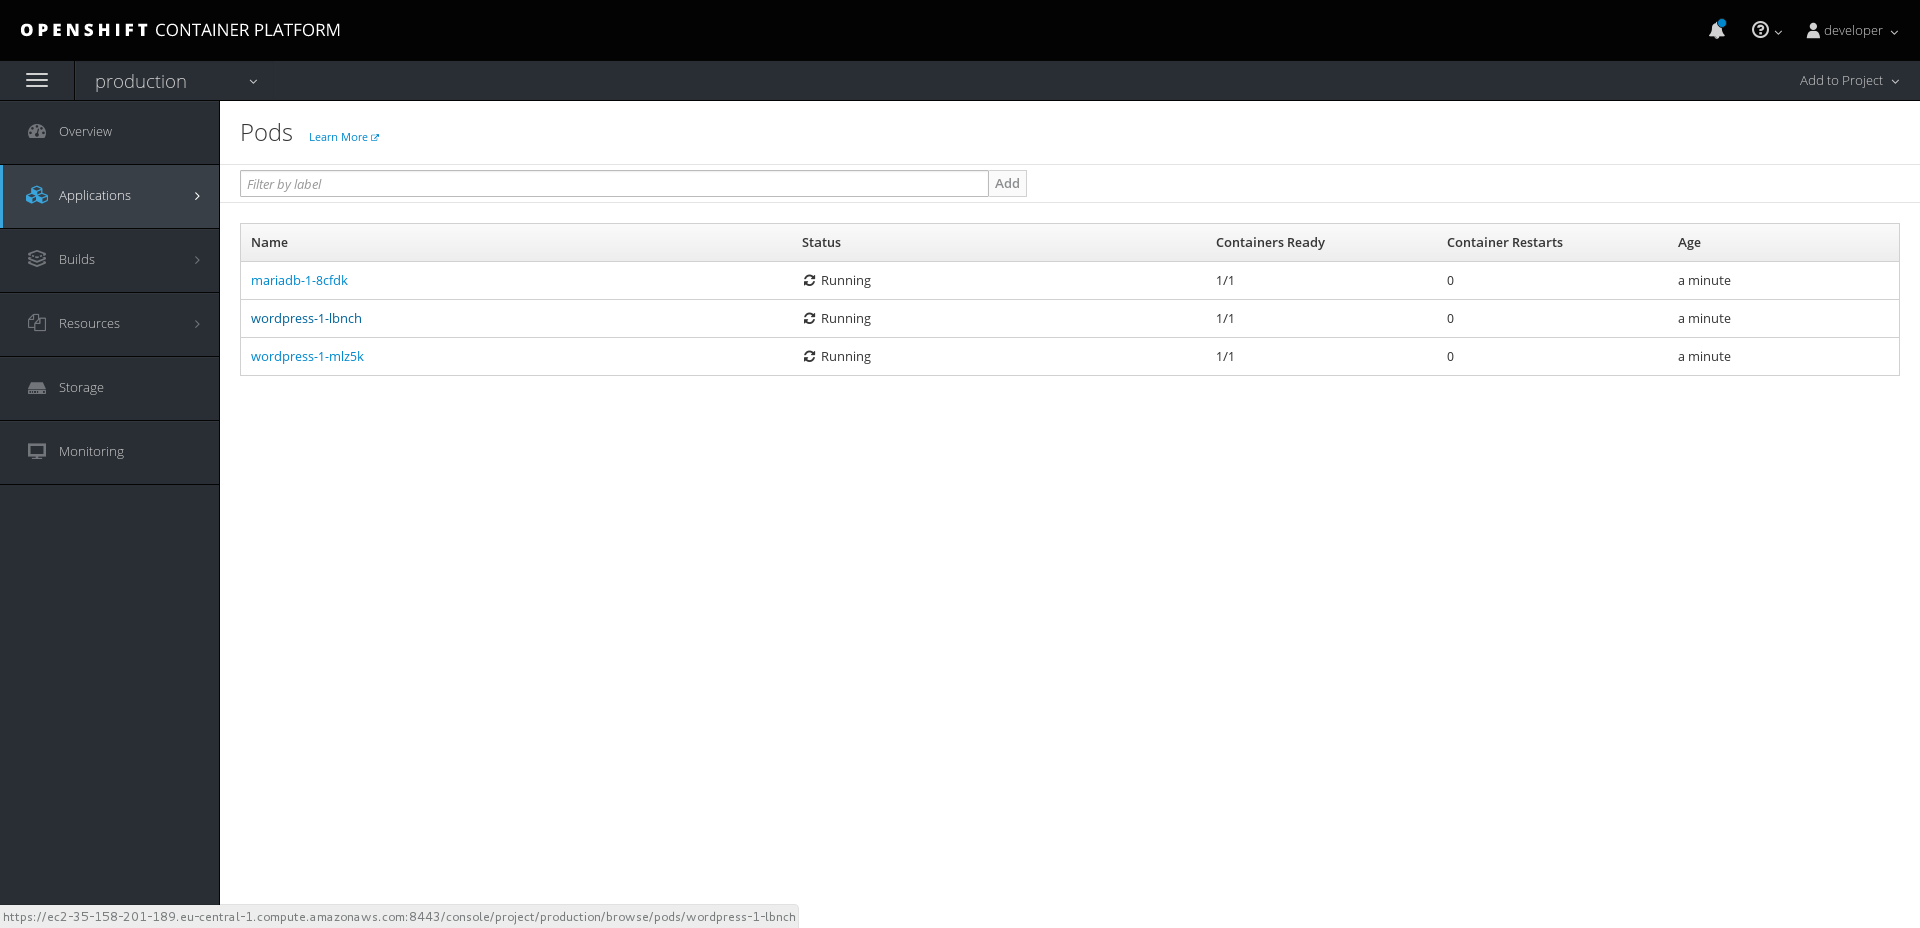
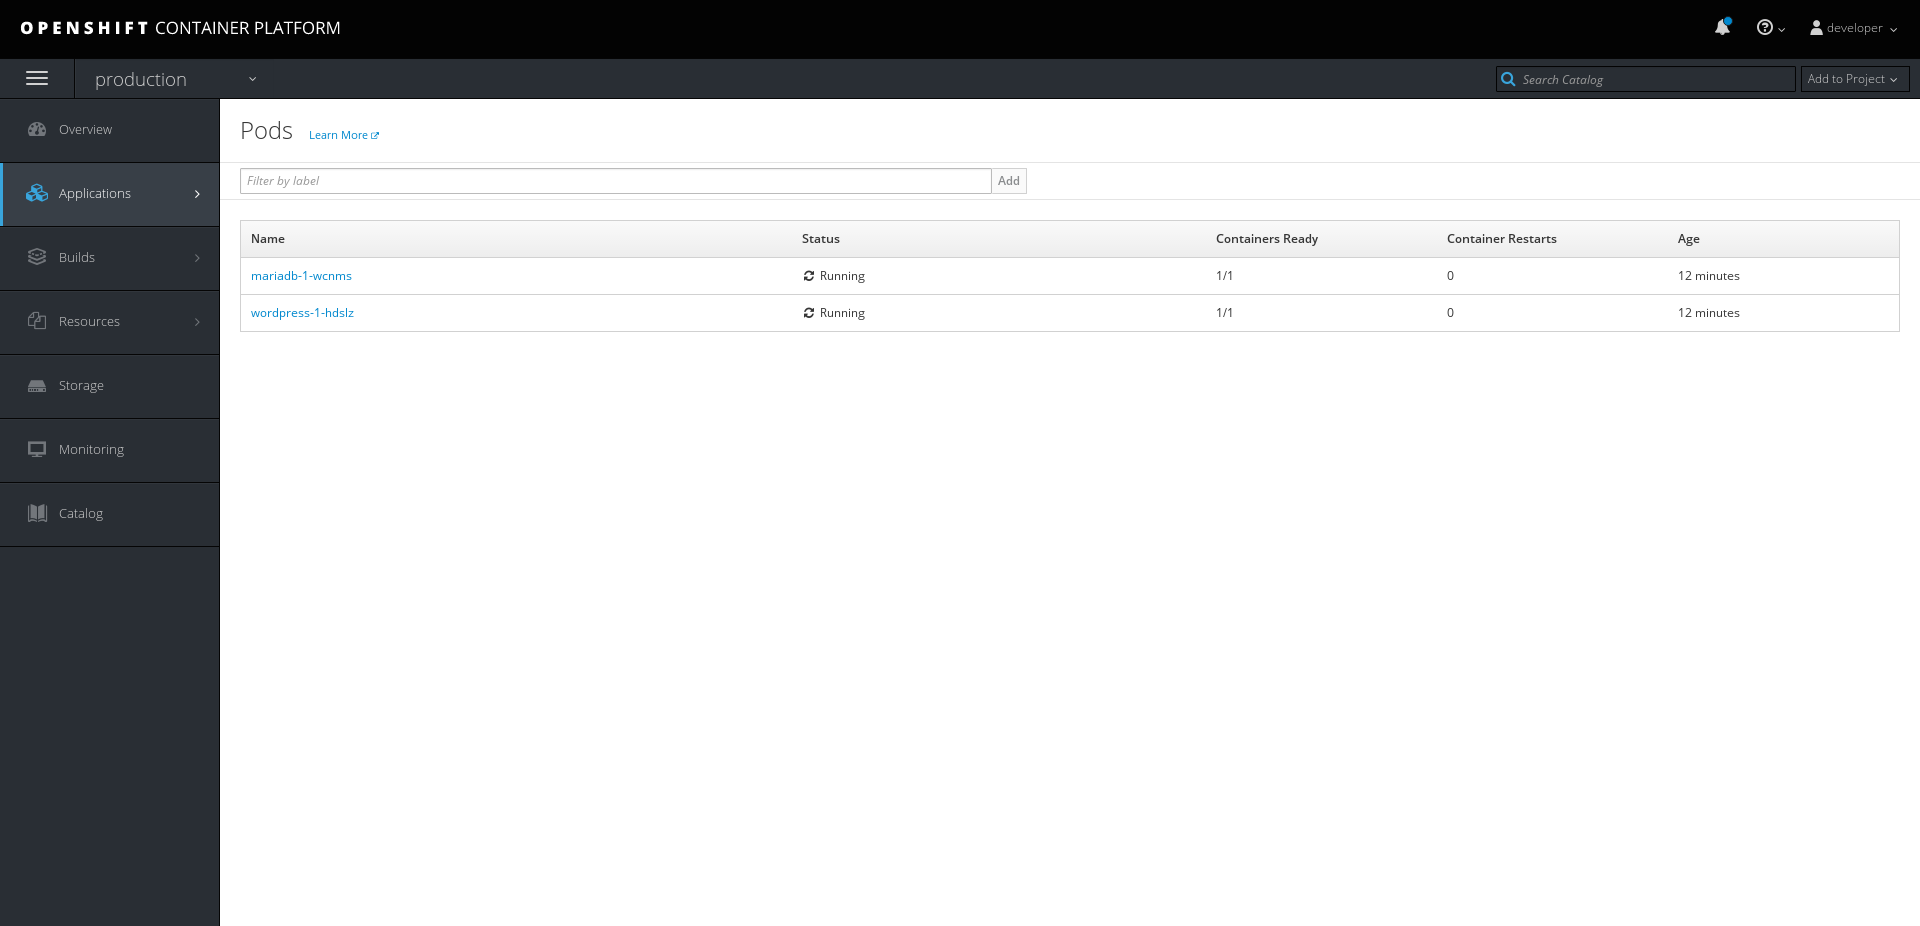
reduce wordpress replicas to 1

diff --git a/labs/lab5/chapter5.md b/labs/lab5/chapter5.md
@@ -109,7 +109,7 @@ Login to the web console with the `developer` user.
 And after we’ve logged in, we see a list of projects that the developer user has access to. Let's select the `production` project:
 ![image not loading](images/2.png "Projects")
 
-Our project landing page provides us with a high-level overview of our wordpress application's pods, services, and route. Notice the wordpress deployment shows 2 pods due to our template's replica setting:
+Our project landing page provides us with a high-level overview of our wordpress application's pods, services, and route:
 ![image not loading](images/3.png "Overview")
 
 Let's dive a little deeper. We want to view a list of our pods by clicking on `Pods` in the left Applications menu:
@@ -120,7 +120,6 @@ Next, let's click on one of our running pods for greater detail:
 
 With this view, we have access to pod information like status, logs, image, volumes, and more:
 ![image not loading](images/6.png "PodDetails")
-
 
 Feel free to continue exploring the console.
 
